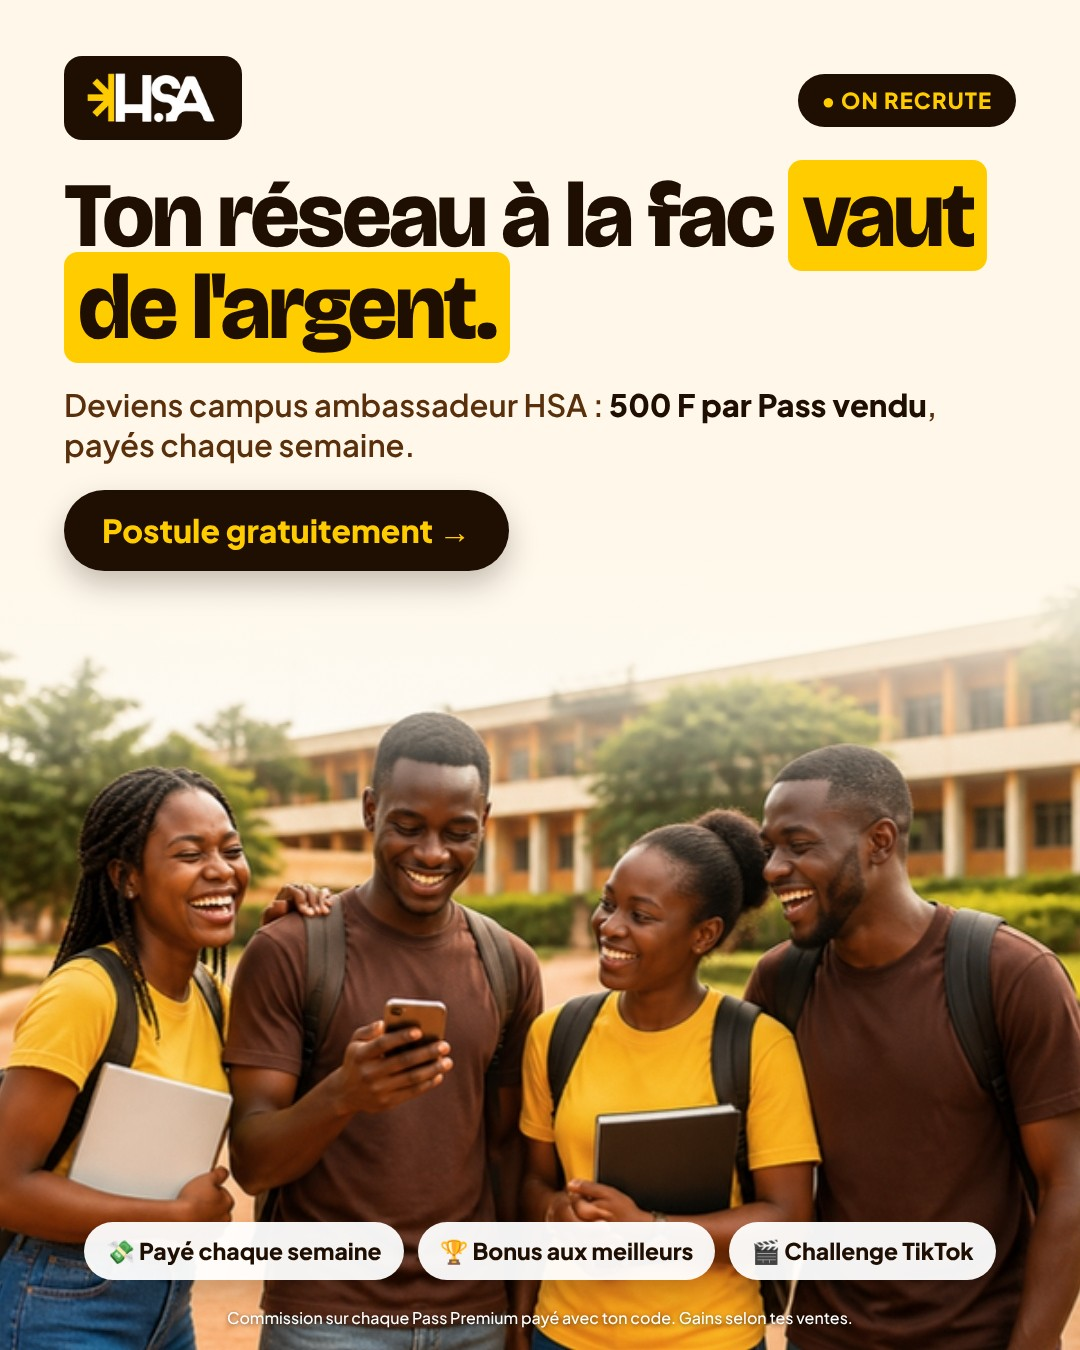
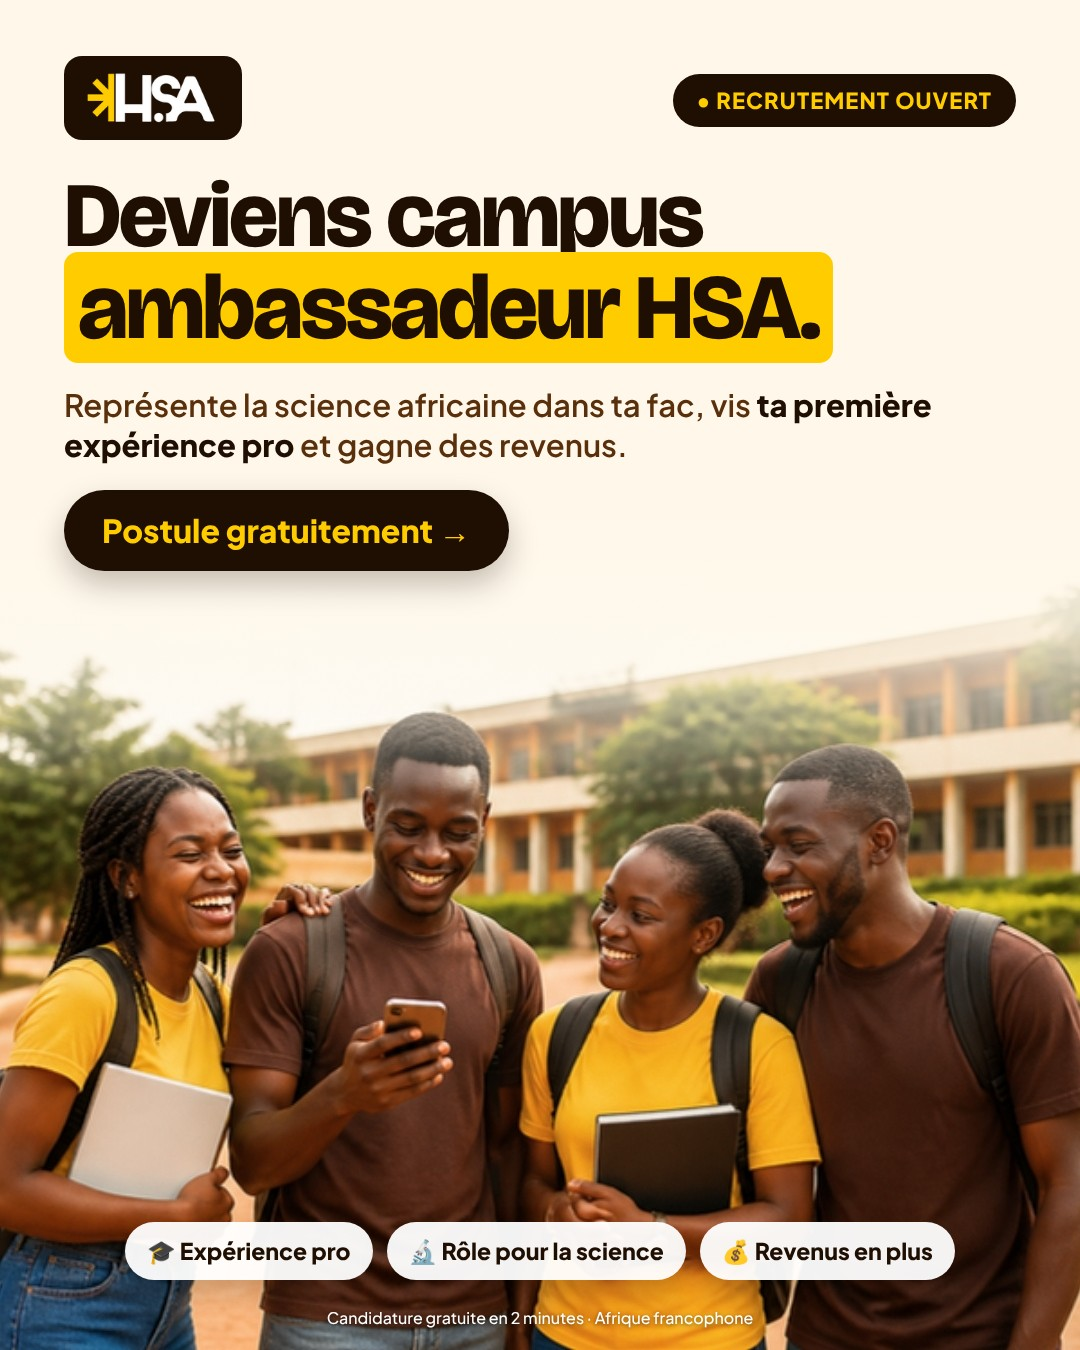
Pub ambassadeurs : nouvel angle rôle, science et expérience pro
Claude-Session: https://claude.ai/code/session_011emZ8TaaFVQzRwQab9bTSJ

Changed region(s): [[0.0611, 0.0311, 0.9167, 0.3422], [0.0611, 0.9022, 0.9167, 0.9956]]

diff --git a/pages-capture/visuel-amb-badge.src.html b/pages-capture/visuel-amb-badge.src.html
@@ -1,0 +1,52 @@
+<!doctype html><html><head><meta charset="utf-8">
+<link rel="stylesheet" href="https://fonts.googleapis.com/css2?family=Bricolage+Grotesque:opsz,wght@12..96,700;12..96,800&family=Plus+Jakarta+Sans:wght@500;600;700;800&display=swap">
+<style>
+*{box-sizing:border-box}body{margin:0}
+.c{width:1080px;height:1350px;position:relative;overflow:hidden;font-family:"Plus Jakarta Sans",sans-serif;color:#1f0e02;background:#fff8ea}
+.rond{position:absolute;right:-260px;top:420px;width:860px;height:860px;border-radius:50%;background:#ffcc00}
+.logo{position:absolute;left:64px;top:56px;background:#1f0e02;border-radius:18px;padding:16px 22px}
+.logo img{height:52px;display:block}
+.tag{position:absolute;right:64px;top:74px;background:#1f0e02;color:#ffcc00;font-weight:800;font-size:22px;padding:12px 24px;border-radius:999px;letter-spacing:.05em}
+h1{position:absolute;left:64px;top:175px;right:60px;margin:0;font-family:"Bricolage Grotesque";font-weight:800;font-size:86px;line-height:1.02;letter-spacing:-.03em}
+h1 span{background:#ffcc00;border-radius:14px;padding:0 14px;box-decoration-break:clone;-webkit-box-decoration-break:clone}
+.sous{position:absolute;left:64px;top:470px;width:480px;font-size:28px;line-height:1.3;font-weight:700;color:#5a300c}
+.liste{position:absolute;left:64px;top:585px;width:500px}
+.it{display:flex;gap:18px;align-items:center;background:#fff;border-radius:22px;padding:18px 20px;margin-bottom:16px;box-shadow:0 10px 26px rgba(31,14,2,.10)}
+.it .ic{width:58px;height:58px;border-radius:16px;background:#fff1bf;display:flex;align-items:center;justify-content:center;font-size:30px;flex:none}
+.it .t{font-size:25px;font-weight:800;line-height:1.2}
+.it .t small{display:block;font-size:19px;font-weight:600;color:#7a4a1c;margin-top:2px}
+.cordon{position:absolute;left:780px;top:440px;width:34px;height:150px;background:#1f0e02;border-radius:6px}
+.clip{position:absolute;left:762px;top:575px;width:70px;height:40px;background:#c9c2b6;border-radius:10px;border:4px solid #8f877b}
+.badge{position:absolute;left:615px;top:605px;width:380px;height:560px;background:#fff;border-radius:34px;box-shadow:0 30px 60px rgba(31,14,2,.30);overflow:hidden;transform:rotate(3deg)}
+.bh{background:#1f0e02;padding:26px 0 22px;text-align:center}
+.bh img{height:42px}
+.bh .r{color:#ffcc00;font-weight:800;font-size:19px;letter-spacing:.18em;margin-top:10px}
+.ph{width:224px;height:224px;border-radius:50%;margin:34px auto 0;border:7px solid #ffcc00;background:url(photo-amb.jpg) -254px -668px/914px auto no-repeat}
+.bn{text-align:center;font-family:"Bricolage Grotesque";font-weight:800;font-size:38px;margin-top:22px;line-height:1}
+.bu{text-align:center;font-size:20px;font-weight:700;color:#7a4a1c;margin-top:8px}
+.bb{position:absolute;left:0;right:0;bottom:0;background:#ffcc00;text-align:center;font-weight:800;font-size:20px;padding:16px 0;letter-spacing:.05em}
+.cta{position:absolute;left:64px;top:1120px;background:#1f0e02;color:#ffcc00;font-weight:800;font-size:32px;padding:20px 38px;border-radius:999px;box-shadow:0 14px 30px rgba(31,14,2,.25)}
+.note{position:absolute;left:64px;top:1230px;font-size:20px;font-weight:700;color:#7a4a1c}
+</style></head><body><div class="c">
+<div class="rond"></div>
+<div class="logo"><img src="__LOGO__"></div>
+<div class="tag">● RECRUTEMENT OUVERT</div>
+<h1>Représente la science africaine <span>sur ton campus.</span></h1>
+<div class="sous">HSA recrute ses campus ambassadeurs.</div>
+<div class="liste">
+ <div class="it"><div class="ic">🎓</div><div class="t">Ta première expérience pro<small>À mettre sur ton CV</small></div></div>
+ <div class="it"><div class="ic">🔬</div><div class="t">Un vrai rôle pour la science<small>Fais connaître la recherche africaine</small></div></div>
+ <div class="it"><div class="ic">🤝</div><div class="t">La voix de HSA dans ta fac<small>Événements, réseau, équipe</small></div></div>
+ <div class="it"><div class="ic">💰</div><div class="t">Et des revenus en plus<small>Une commission à chaque Pass</small></div></div>
+</div>
+<div class="cordon"></div><div class="clip"></div>
+<div class="badge">
+ <div class="bh"><img src="__LOGO__"><div class="r">CAMPUS AMBASSADEUR</div></div>
+ <div class="ph"></div>
+ <div class="bn">Toi, bientôt ?</div>
+ <div class="bu">Ton université · Promo 2026</div>
+ <div class="bb">Hub Scientifique Africain</div>
+</div>
+<div class="cta">Postule gratuitement →</div>
+<div class="note">Candidature en 2 minutes · Afrique francophone</div>
+</div></body></html>

diff --git a/pages-capture/visuel-amb4.src.html b/pages-capture/visuel-amb4.src.html
@@ -1,0 +1,28 @@
+<!doctype html><html><head><meta charset="utf-8">
+<link rel="stylesheet" href="https://fonts.googleapis.com/css2?family=Bricolage+Grotesque:opsz,wght@12..96,700;12..96,800&family=Plus+Jakarta+Sans:wght@500;600;700;800&display=swap">
+<style>
+*{box-sizing:border-box}body{margin:0}
+.c{width:1080px;height:1350px;position:relative;overflow:hidden;font-family:"Plus Jakarta Sans",sans-serif;color:#1f0e02;background:#fff8ea}
+.photo{position:absolute;left:0;right:0;bottom:0;height:1440px;background:url(photo-amb.jpg) center bottom/cover no-repeat}
+.voile{position:absolute;inset:0;background:linear-gradient(180deg,#fff8ea 0%,#fff8ea 36%,rgba(255,248,234,.85) 46%,rgba(255,248,234,0) 60%)}
+.logo{position:absolute;left:64px;top:56px;background:#1f0e02;border-radius:18px;padding:16px 22px}
+.logo img{height:52px;display:block}
+.tag{position:absolute;right:64px;top:74px;background:#1f0e02;color:#ffcc00;font-weight:800;font-size:22px;padding:12px 24px;border-radius:999px;letter-spacing:.05em}
+h1{position:absolute;left:64px;top:170px;right:60px;margin:0;font-family:"Bricolage Grotesque";font-weight:800;font-size:92px;line-height:1;letter-spacing:-.03em}
+h1 span{background:#ffcc00;border-radius:14px;padding:0 14px;box-decoration-break:clone;-webkit-box-decoration-break:clone}
+.sous{position:absolute;left:64px;top:385px;right:90px;font-size:31px;line-height:1.3;color:#5a300c;font-weight:600}
+.sous b{color:#1f0e02}
+.cta{position:absolute;left:64px;top:490px;background:#1f0e02;color:#ffcc00;font-weight:800;font-size:32px;padding:20px 38px;border-radius:999px;box-shadow:0 14px 30px rgba(31,14,2,.25)}
+.chips{position:absolute;left:40px;right:40px;bottom:70px;display:flex;gap:14px;justify-content:center}
+.chip{background:rgba(255,255,255,.95);border-radius:999px;padding:14px 22px;font-weight:800;font-size:23px;box-shadow:0 12px 28px rgba(0,0,0,.18);white-space:nowrap}
+.note{position:absolute;left:0;right:0;bottom:22px;text-align:center;font-size:16px;color:#fff;text-shadow:0 1px 4px rgba(0,0,0,.6)}
+</style></head><body><div class="c">
+<div class="photo"></div><div class="voile"></div>
+<div class="logo"><img src="__LOGO__"></div>
+<div class="tag">● RECRUTEMENT OUVERT</div>
+<h1>Deviens campus <span>ambassadeur HSA.</span></h1>
+<div class="sous">Représente la science africaine dans ta fac, vis <b>ta première expérience pro</b> et gagne des revenus.</div>
+<div class="cta">Postule gratuitement →</div>
+<div class="chips"><div class="chip">🎓 Expérience pro</div><div class="chip">🔬 Rôle pour la science</div><div class="chip">💰 Revenus en plus</div></div>
+<div class="note">Candidature gratuite en 2 minutes · Afrique francophone</div>
+</div></body></html>
